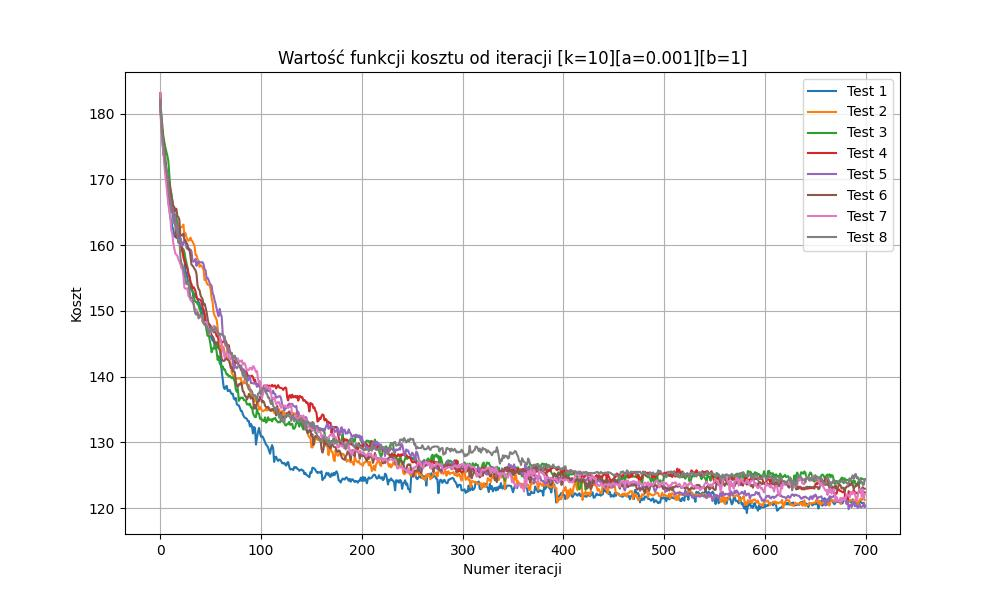
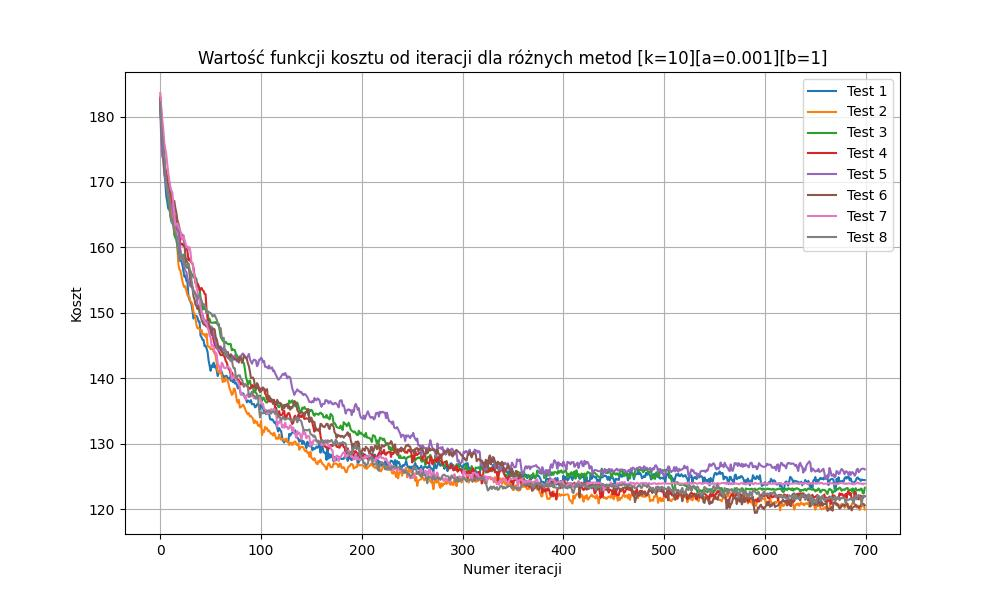
methods comparison

diff --git a/main.py b/main.py
@@ -1,6 +1,7 @@
 import random
 
 import numpy as np
+from itertools import product
 
 from genetic.target_function import make_gamers_matrix, calculate_teams_cost
 from genetic.selections import roulette_wheel, ranking_selection
@@ -19,6 +20,19 @@ def make_evolution(teams, k, selection, cross, mutation, a, b):
         # make mutation
         mutation(teams, selected_teams[i], selected_teams[i + 1], a, b)
 
+def run_test(n):
+    # k_parameters=[2,5,10,25,50]
+    # for k in k_parameters:
+    #     title=f"k{k}test"
+    #     test_unit(n,k,0.001,1,title)
+    #
+    # title=f"a=0test"
+    # test_unit(n,25,0,1,title)
+    #
+    # title=f"b=0test"
+    # test_unit(n,25,0.001,0,title)
+
+    compare_methods(n, 25, 0.001, 1)
 
 def test_unit(n, k, a, b, title, num_of_tests=8):
     selection = ranking_selection
@@ -35,9 +49,30 @@ def test_unit(n, k, a, b, title, num_of_tests=8):
             teams_cost.append(sum(calculate_teams_cost(teams, a, b)))
         teams_graphs.append(teams_cost)
 
-    for i,team_data in enumerate(teams_graphs,start=1):
-        plt.plot(team_data, linestyle='-', label=legend_names[i-1]) 
-    title_graph= f'Wartość funkcji kosztu od iteracji [k={k}][a={a}][b={b}]'
+    save_graph(title, teams_graphs, legend_names, k, a, b)
+
+def compare_methods(n, k, a, b):
+    selections = [roulette_wheel, ranking_selection]
+    crossbreeding = [lowest_pref_cross, mask_cross]
+    mutations = [try_permutation, lucky_mutation]
+    teams_graphs=[]
+    legend_names = [f"Test {i+1}" for i in range(8)]
+    for selection, cross, mutation in product(selections, crossbreeding, mutations):
+        print(selection, cross, mutation)
+        teams = make_gamers_matrix(
+            path_stats='data/player_stats.csv', path_teams='data/teams.csv')
+        teams_cost = []
+        for i in range(n):
+            make_evolution(teams, k, selection, cross, mutation, a, b)
+            teams_cost.append(sum(calculate_teams_cost(teams, a, b)))
+        teams_graphs.append(teams_cost)
+
+    save_graph("comparison", teams_graphs, legend_names, k, a, b)
+
+def save_graph(title, teams_graphs, legend_names, k, a, b):
+    for i, team_data in enumerate(teams_graphs, start=1):
+        plt.plot(team_data, linestyle='-', label=legend_names[i - 1])
+    title_graph = f'Wartość funkcji kosztu od iteracji dla różnych metod [k={k}][a={a}][b={b}]'
     plt.title(title_graph)
     plt.xlabel('Numer iteracji')
     plt.ylabel('Koszt')
@@ -45,19 +80,7 @@ def test_unit(n, k, a, b, title, num_of_tests=8):
     plt.legend(legend_names)
     plt.savefig(f"graphs/{title}.jpg")
     plt.clf()
-    print(f"Saved graph")
-    
-def run_test(n):
-    k_parameters=[2,5,10,25,50]
-    for k in k_parameters:
-        title=f"k{k}test"
-        test_unit(n,k,0.001,1,title)
-
-    title=f"a=0test"
-    test_unit(n,25,0,1,title)
-
-    title=f"b=0test"
-    test_unit(n,25,0.001,0,title)
+    print(f"Saved graph {title}")
 
 def run_algorithm(teams,n,k,a,b):
     selection = ranking_selection
@@ -76,8 +99,7 @@ def run_algorithm(teams,n,k,a,b):
                 outfile.write(str(str(i)+":").rjust(5))
                 for player in team:
                     outfile.write(str(player[0]).rjust(4))
-                outfile.write("\n")    
-
+                outfile.write("\n")
 
 if __name__ == "__main__":
     teams = make_gamers_matrix(
@@ -85,7 +107,6 @@ if __name__ == "__main__":
     plt.figure(figsize=(10, 6))
     # run_algorithm(teams,100,10,0.001,1) # running clear algorithm
     run_test(700) # running tests
-
 
     
 

diff --git a/genetic/mutation.py b/genetic/mutation.py
@@ -44,7 +44,7 @@ def make_lucky_mutation(teams, team_1):
     teams[team_1_id][player_2_id] = tmp
 
 
-def lucky_mutation(teams, team_1, team_2, mutation_chance=1):
+def lucky_mutation(teams, team_1, team_2, a=0, b=0, mutation_chance=1):
     if random.randint(1, 100) <= mutation_chance:
         make_lucky_mutation(teams, team_1)
 
